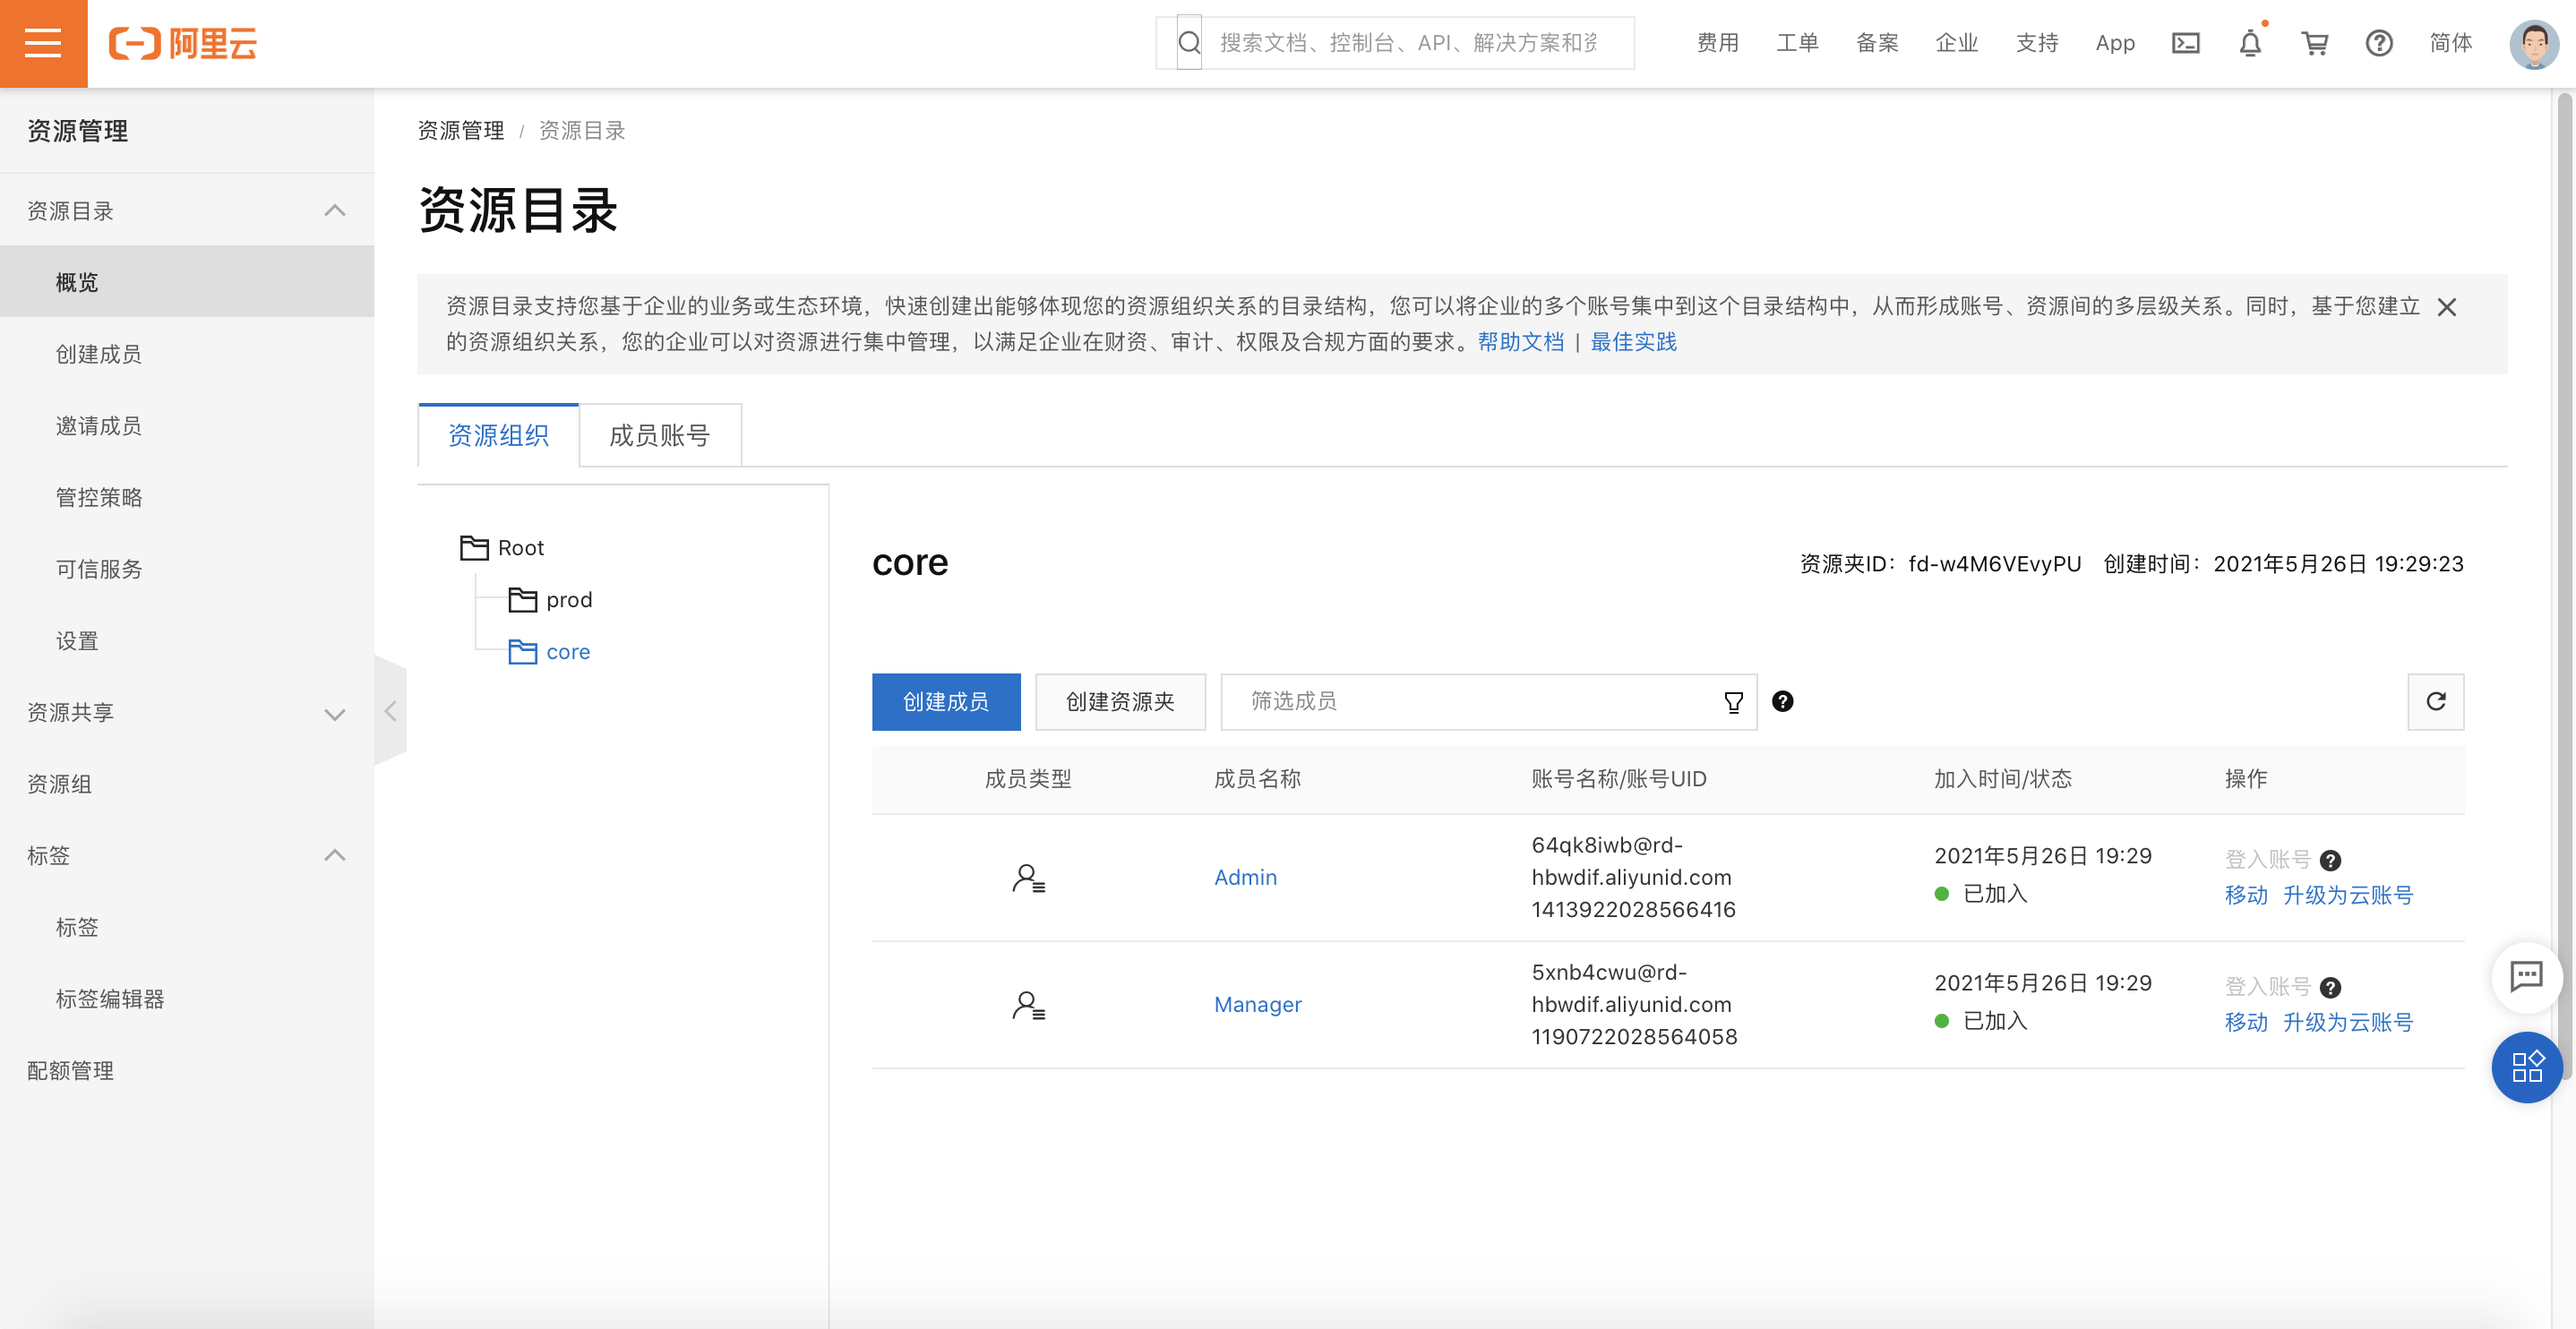
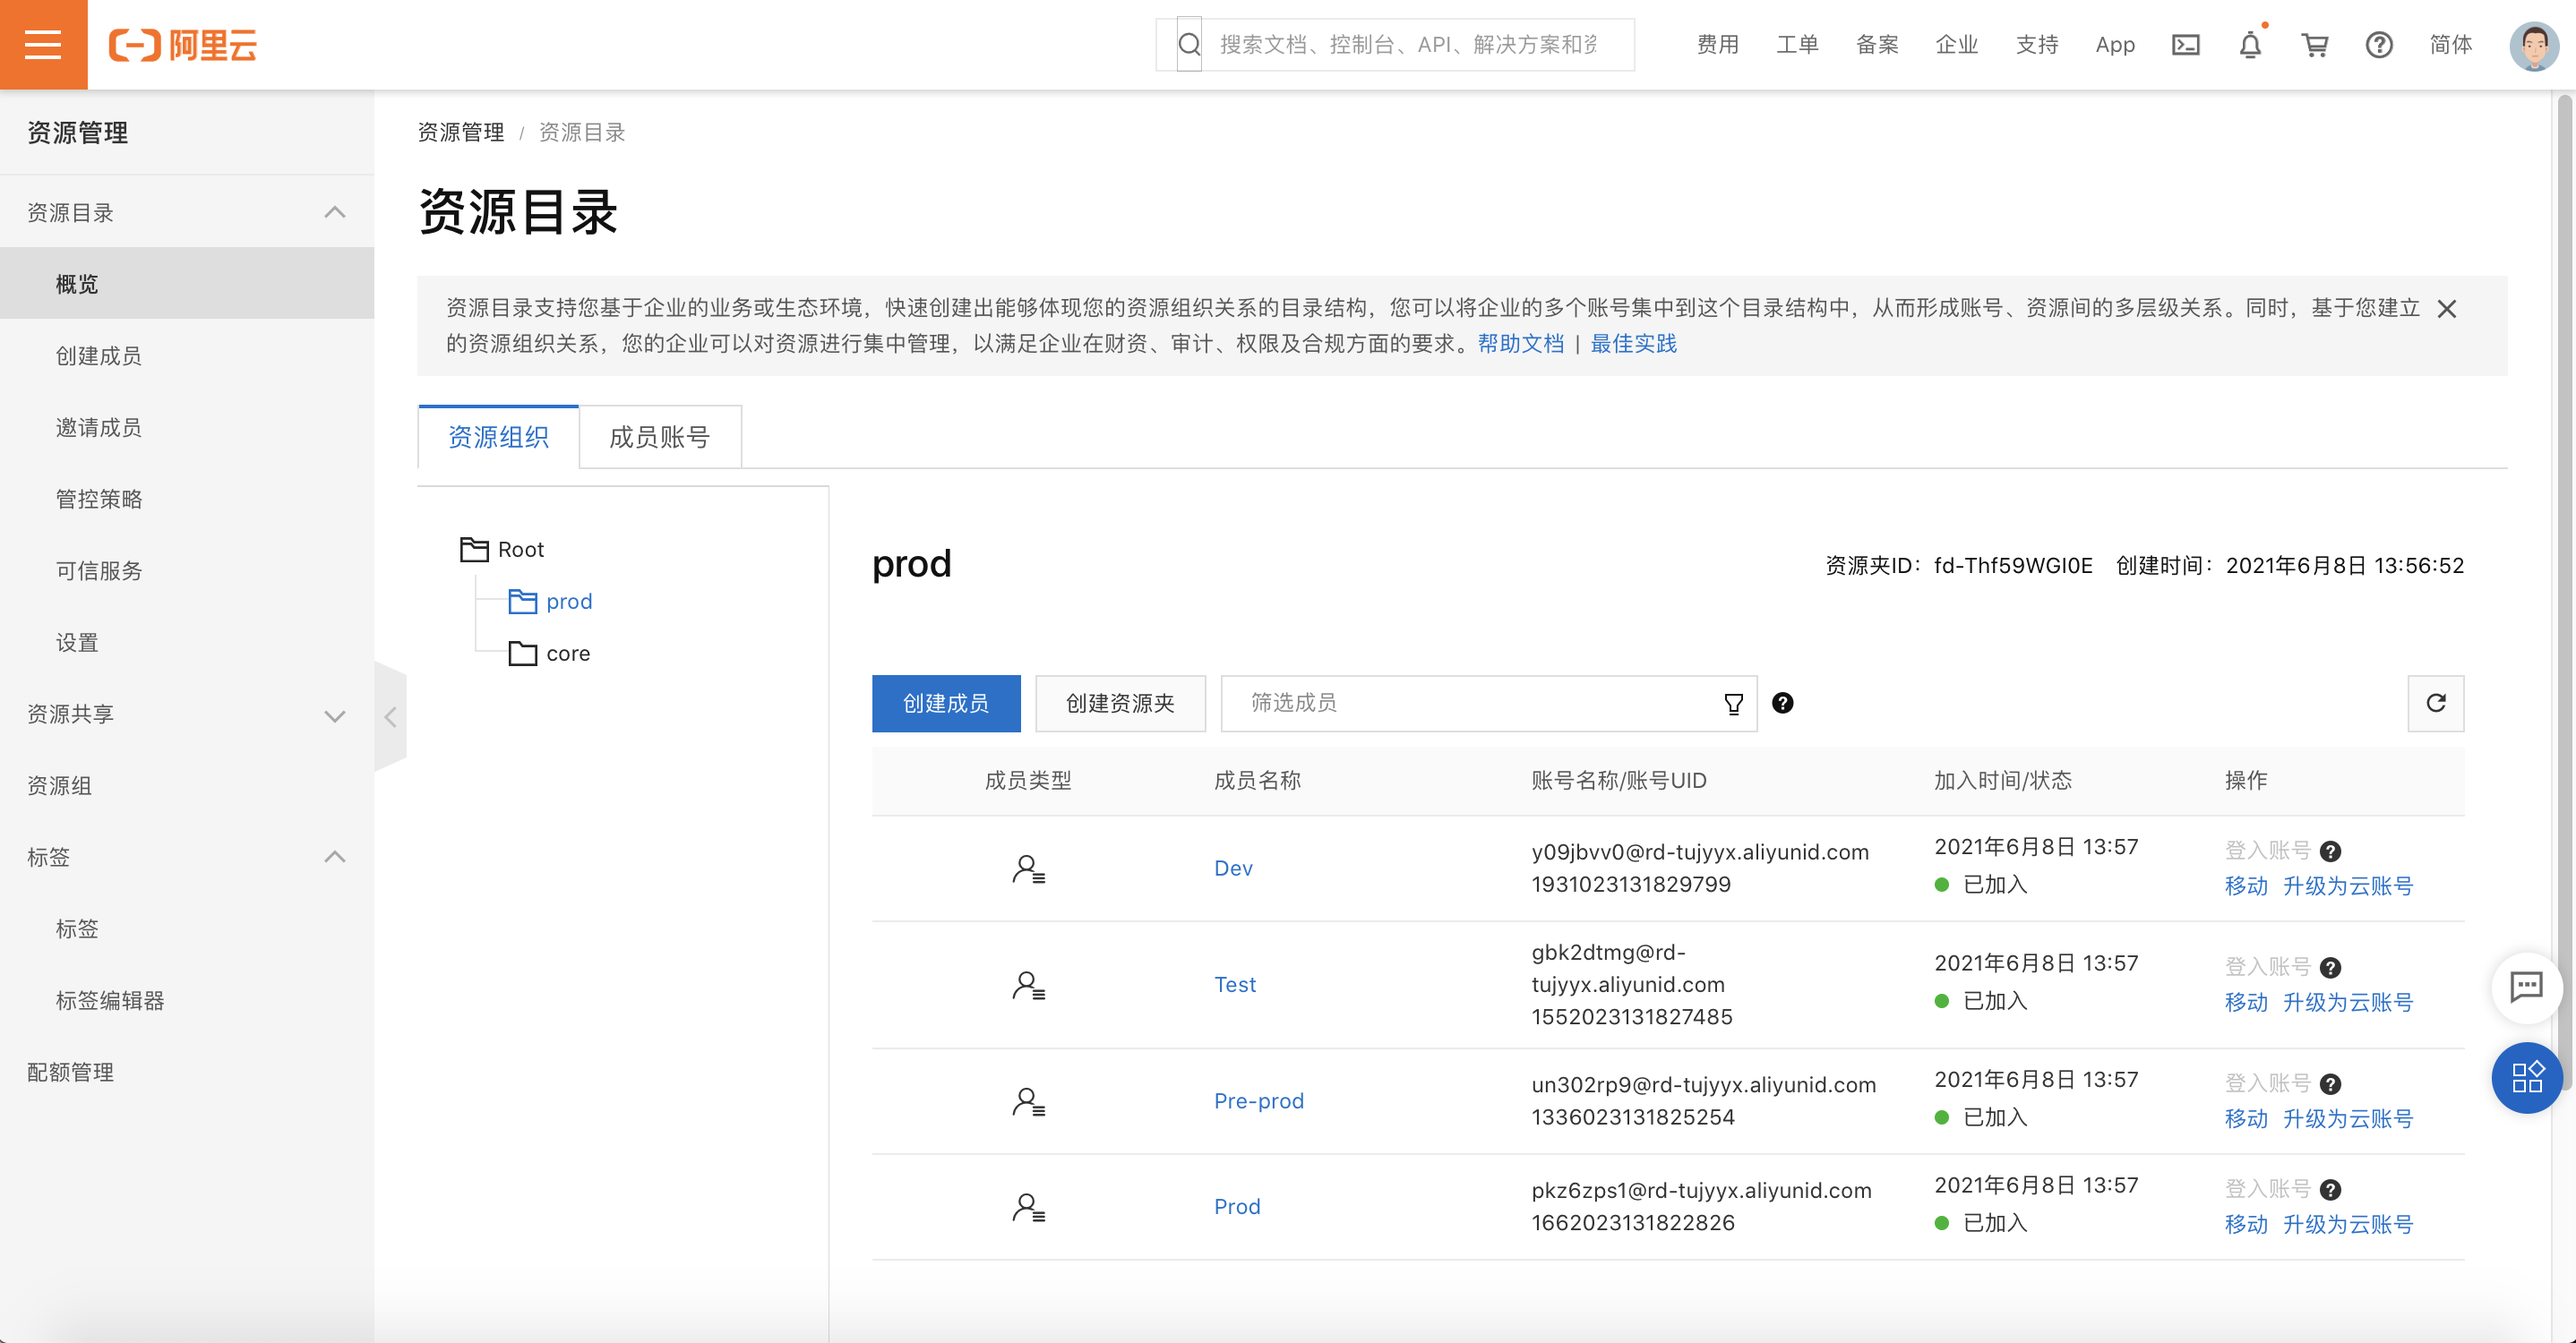
change rd example in IAM/01-terraform script

diff --git a/solution/IAM/01-terraform-init-resource-directory/README.md b/solution/IAM/01-terraform-init-resource-directory/README.md
@@ -22,15 +22,16 @@
 
    - 根据自身需要修改`resource_directories`内容文件夹列表以及文件夹下的用户
 
-     ```json
+     ```
      # 创建文件夹和资源账号
-     # 创建"prod"和"core"文件夹，下面分别有账号"Bob","Alice"和"Admin","Manager"
+     # 创建"prod"和"core"文件夹
+     # "prod"下有账号"Prod", "Pre-prod", "Dev", "Test", "core"下有账号"Shared Service", "Security", "Networking", "Audit"
      resource_directories = {
        "prod": {
-         users = ["Bob", "Alice"]
+         accounts = ["Prod", "Pre-prod", "Dev", "Test"]
        },
        "core": {
-         users = ["Admin", "Manager"]
+         accounts = ["Shared Service", "Security", "Networking", "Audit"]
        }
      }
      
@@ -49,4 +50,6 @@
    6. 控制台检查资源目录是否成功开通并且创建资源夹和用户
 
       ![12.01-控制台](../img/12.01-控制台.png)
+      
+   7. 创建完成后若要删除资源账号，需先在控制台将其升级为云账号，无法直接用`terraform destroy`直接删除。
 
